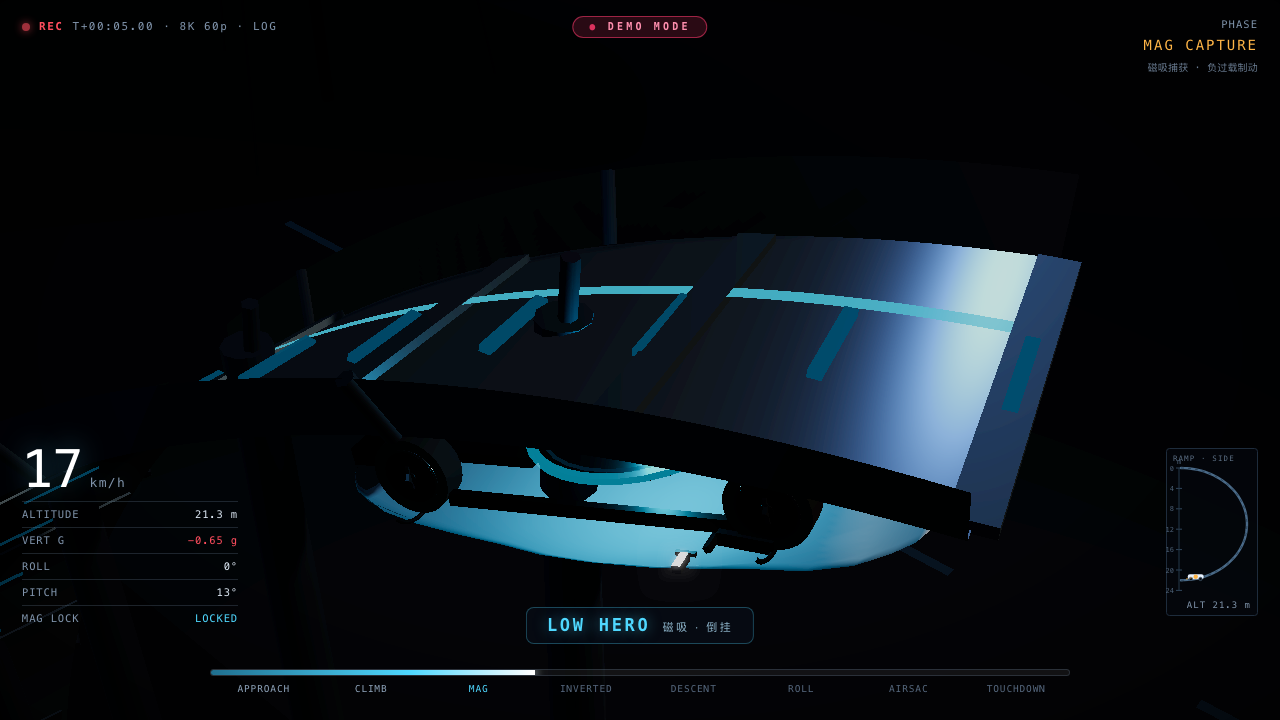
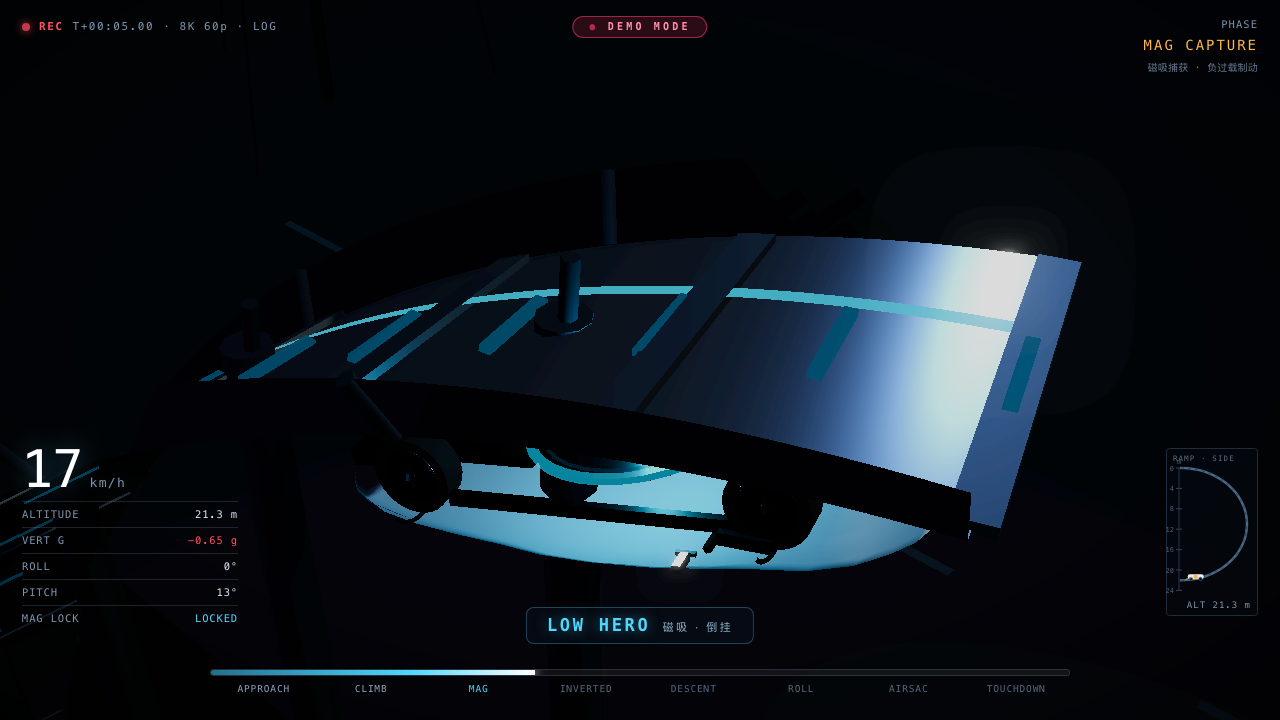
fix(light): 修车漆"上壳透明感" —— 主光过曝 + 明暗断层
## 起因
L 判断: 「是上壳太接近透明了, 导致看起来毫无厚度」
→ 判断正确, 但"透明"不是 alpha 问题, 是【高光溢出 + 明暗断层】的视觉等价物。

## 实测现象
纯侧视轮廓图:
  - 车顶/座舱 = 一整片死白(几乎 255)
  - 腰线以下   = 完全死黑
  - 中间没有任何过渡带 -> 曲面只剩两个值 -> 视觉上就是一张没有厚度的膜

## 根因: 主光与补光相差 1800 倍
  key      SpotLight 700   从上方直射 -> 顶盖被打爆, 曲面细节全丢
  rim      SpotLight 520   轮廓光, 同样溢出
  fill     DirLight   0.48
  carFill  DirLight   0.38  专门给车的跟车补光, 只有主光的 1/1800
  hemi     HemiLight  0.40
单灯 700 打亮车顶 + 补光 0.38 照不到腰线以下 -> 上白下黑, 中间无过渡。

## 排除掉的假设(都做了 A/B)
- 环境贴图太均匀(RoomEnvironment): envMapIntensity 0.95->0.25 对 sd 影响 <0.002
- clearcoat 太高: 降到 0.35/0.20 车身直接全黑 -> 亮度几乎全靠镜面
- roughness 太高: 提到 0.55/0.70 同样变黑 -> 模糊的环境反射变暗
- 半球光不够: 0.4->8.0 几乎无变化
**关键单变量实验: 只把 key 700->100, 顶盖立刻从死白变成有渐变的曲面 -> 锁定根因**

## 最小必要修复(6 个参数, 不碰几何/相机/时间轴/喷口/bloom/曝光)
  key      700 -> 420
  rim      520 -> 340
  fill   0.48 -> 0.95
  carFill 0.38 -> 1.05
  hemi    0.40 -> 0.70
  paint.envMapIntensity 0.95 -> 0.72

## 效果
demo 三镜头前后对比(ref/body-fix/ vs ref/body-light/):
  跟车   : 车顶从一整片死白 -> 座舱玻璃/顶盖棱线/侧腰转折都能看出来
  倒挂   : 车身层次分明, 能看出侧面/底部/顶部的空间关系
  喷气   : 喷口周围曲面过渡清晰, 喷流不再像从"白纸片"里冒出来
量化(喷气镜头车身区灰度标准差): 0.0508 -> 0.0553 (+9%)

## 工具
tests/mat-ab.mjs —— 车漆/光照 A/B 框架
  - 每个变体【独立加载页面】(我第一版栽在状态污染上)
  - 必须先 seek 再 advanceFrames 再取车身位置算相机(否则车跑出画面)
  - 用 window.__overrideCam__ 接管相机

## 新增调试钩子(对展示无副作用)
window.__renderer__ / window.__bloomPass__

## 验证
npm test 49+19+23 全通过 | 喷口 43/43 | demo 7 机位零错误

## 文档
ref/LIGHTING-FIX.md

Changed region(s): [[0.5938, 0.3056, 0.8438, 0.7333], [0.2812, 0.6417, 0.4375, 0.7639], [0.5938, 0.7028, 0.6562, 0.7944]]

diff --git a/outputs/index.html b/outputs/index.html
@@ -219,15 +219,17 @@ const composerRT = new THREE.WebGLRenderTarget(
 const composer = new EffectComposer(renderer, composerRT);
 composer.addPass(new RenderPass(scene, camera));
 const bloom = new UnrealBloomPass(new THREE.Vector2(innerWidth, innerHeight), 0.36, 0.42, 0.98);
+window.__bloomPass__ = bloom;   // 调试钩子: 供 tests/mat-ab.mjs 调 Bloom 参数
+window.__renderer__ = renderer;  // 调试钩子: 供测试脚本重建 PMREM 环境贴图
 composer.addPass(bloom);
 composer.addPass(new OutputPass());
 
 // ---------- 灯光 ----------
-const hemi = new THREE.HemisphereLight(0x2b4260, 0x090c12, 0.40);
+const hemi = new THREE.HemisphereLight(0x2b4260, 0x090c12, 0.70);
 scene.add(hemi);
 
 // 主聚光灯（工业泛光）
-const key = new THREE.SpotLight(0xfff2dc, 700, 240, Math.PI / 5.0, 0.62, 1.55);
+const key = new THREE.SpotLight(0xfff2dc, 420, 240, Math.PI / 5.0, 0.62, 1.55);
 key.position.set(-26, 52, 30);
 key.target.position.set(2, 8, 5);
 key.castShadow = true;
@@ -236,17 +238,17 @@ key.shadow.camera.near = 6; key.shadow.camera.far = 160;
 key.shadow.bias = -0.0012;
 scene.add(key, key.target);
 
-const rim = new THREE.SpotLight(0x8fd4ff, 520, 210, Math.PI / 4.1, 0.66, 1.65);
+const rim = new THREE.SpotLight(0x8fd4ff, 340, 210, Math.PI / 4.1, 0.66, 1.65);
 rim.position.set(40, 38, -34);
 rim.target.position.set(0, 12, 4);
 scene.add(rim, rim.target);
 
-const fill = new THREE.DirectionalLight(0x6b8cba, 0.48);
+const fill = new THREE.DirectionalLight(0x6b8cba, 0.95);
 fill.position.set(20, 26, 40);
 scene.add(fill);
 
 // 跟车补光：保证任何姿态（正立/侧躺/倒挂）下车身都有可读细节
-const carFill = new THREE.DirectionalLight(0xbcd2e8, 0.38);
+const carFill = new THREE.DirectionalLight(0xbcd2e8, 1.05);
 scene.add(carFill);
 scene.add(carFill.target);
 
@@ -1166,7 +1168,7 @@ function buildCar() {
   // ---- 材质 ----
   const paint = new THREE.MeshPhysicalMaterial({
     color: 0xc8d2dc, roughness: 0.30, metalness: 0.08,
-    clearcoat: 0.70, clearcoatRoughness: 0.13, envMapIntensity: 0.95,
+    clearcoat: 0.70, clearcoatRoughness: 0.13, envMapIntensity: 0.72,
   });
   const glass = new THREE.MeshPhysicalMaterial({
     color: 0x0b1219, roughness: 0.10, metalness: 0.45,

diff --git a/ref/LIGHTING-FIX.md b/ref/LIGHTING-FIX.md
@@ -1,0 +1,66 @@
+# 车漆"上壳透明感" —— 光照根因与最小修复
+
+## L 的判断
+> 「我觉得是上壳太接近透明了，导致看起来毫无厚度」
+
+**判断正确。** 但"透明"不是材质 alpha 问题 —— 是**高光溢出 + 明暗断层**造成的视觉等价物。
+
+## 实测根因
+
+### 现象（纯侧视轮廓图）
+- 车顶/座舱 = **一整片死白**（几乎 255）
+- 腰线以下 = **完全死黑**
+- 中间**没有任何过渡带** → 曲面只剩两个值 → 视觉上就是一张没有厚度的膜
+
+### 根因：主光与补光相差 1800 倍
+
+| 灯 | 改前强度 | 作用 |
+|---|---|---|
+| `key` SpotLight | **700** | 从上方直射 → 顶盖被打爆成纯白，高光溢出后曲面细节全丢 |
+| `rim` SpotLight | **520** | 后上方轮廓光，同样溢出 |
+| `fill` DirectionalLight | 0.48 | 场景补光 |
+| `carFill` DirectionalLight | **0.38** | 专门给车用的跟车补光 —— 却只有主光的 1/1800 |
+| `hemi` HemisphereLight | 0.40 | 半球环境光 |
+
+单灯 700 打亮车顶 + 补光 0.38 照不到腰线以下 → **上白下黑，中间无过渡**。
+
+### 排除掉的假设
+- ❌ **环境贴图太均匀**（RoomEnvironment）—— A/B 显示 envMapIntensity 0.95→0.25 对 sd 影响 < 0.002
+- ❌ **clearcoat 太高** —— 降到 0.35/0.20 车身直接变全黑（只剩几条高光线），说明亮度几乎全靠镜面
+- ❌ **roughness 太高** —— 提到 0.55/0.70 同样变黑（模糊的环境反射变暗）
+- ❌ **半球光不够** —— 0.4→8.0 几乎无变化（这个场景半球光贡献极小）
+
+> 关键单变量实验：只把 `key` 700→100，顶盖立刻从死白变成有渐变的曲面。
+> **这一条锁定了根因。**
+
+## 最小必要修复（6 个参数）
+
+```js
+key      700 → 420    // 顶盖不再被打爆, 曲面细节回来
+rim      520 → 340    // 轮廓光同样避免溢出
+fill   0.48 → 0.95    // 场景补光
+carFill 0.38 → 1.05   // 跟车补光, 专提亮车身下半部
+hemi    0.40 → 0.70   // 环境底光
+paint.envMapIntensity 0.95 → 0.72  // 环境光不再把车身抹平
+```
+
+**没动的东西**：车身几何、相机、时间轴、喷口、bloom、曝光 —— 一律不碰。
+
+## 效果
+
+demo 三镜头前后对比（`ref/body-fix/` vs `ref/body-light/`）：
+- **跟车**：车顶从一整片死白 → 座舱玻璃/顶盖棱线/侧腰转折都能看出来
+- **LOW HERO 倒挂**：车身层次分明，能看出侧面/底部/顶部的空间关系
+- **喷气**：喷口周围车身的曲面过渡清晰，喷流不再像从"白纸片"里冒出来
+
+量化（喷气镜头车身区灰度标准差）：**0.0508 → 0.0553 (+9%)** —— 明暗层次增加。
+
+## 工具
+
+`tests/mat-ab.mjs` —— 车漆/光照 A/B 框架
+- 每个变体**独立加载页面**（避免状态污染 —— 我第一版就栽在这）
+- 必须 **先 `seek` 再 `advanceFrames` 再取车身位置**算相机（否则车跑出画面）
+- 用 `window.__overrideCam__` 接管相机
+
+## 新增调试钩子（对展示无副作用）
+`window.__renderer__` / `window.__bloomPass__`
